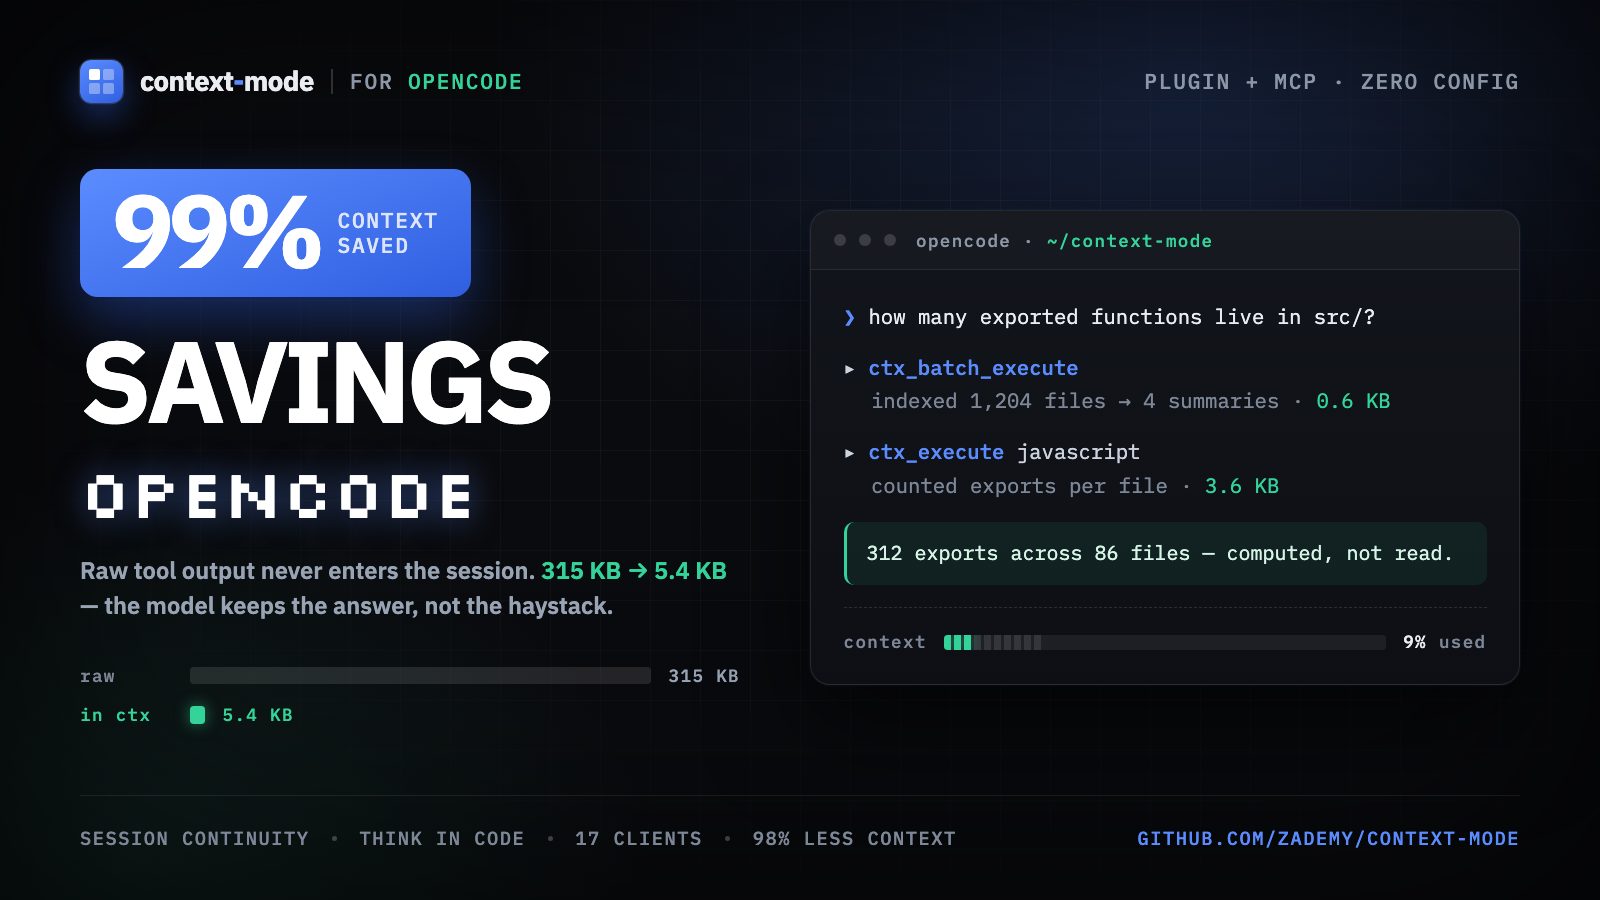
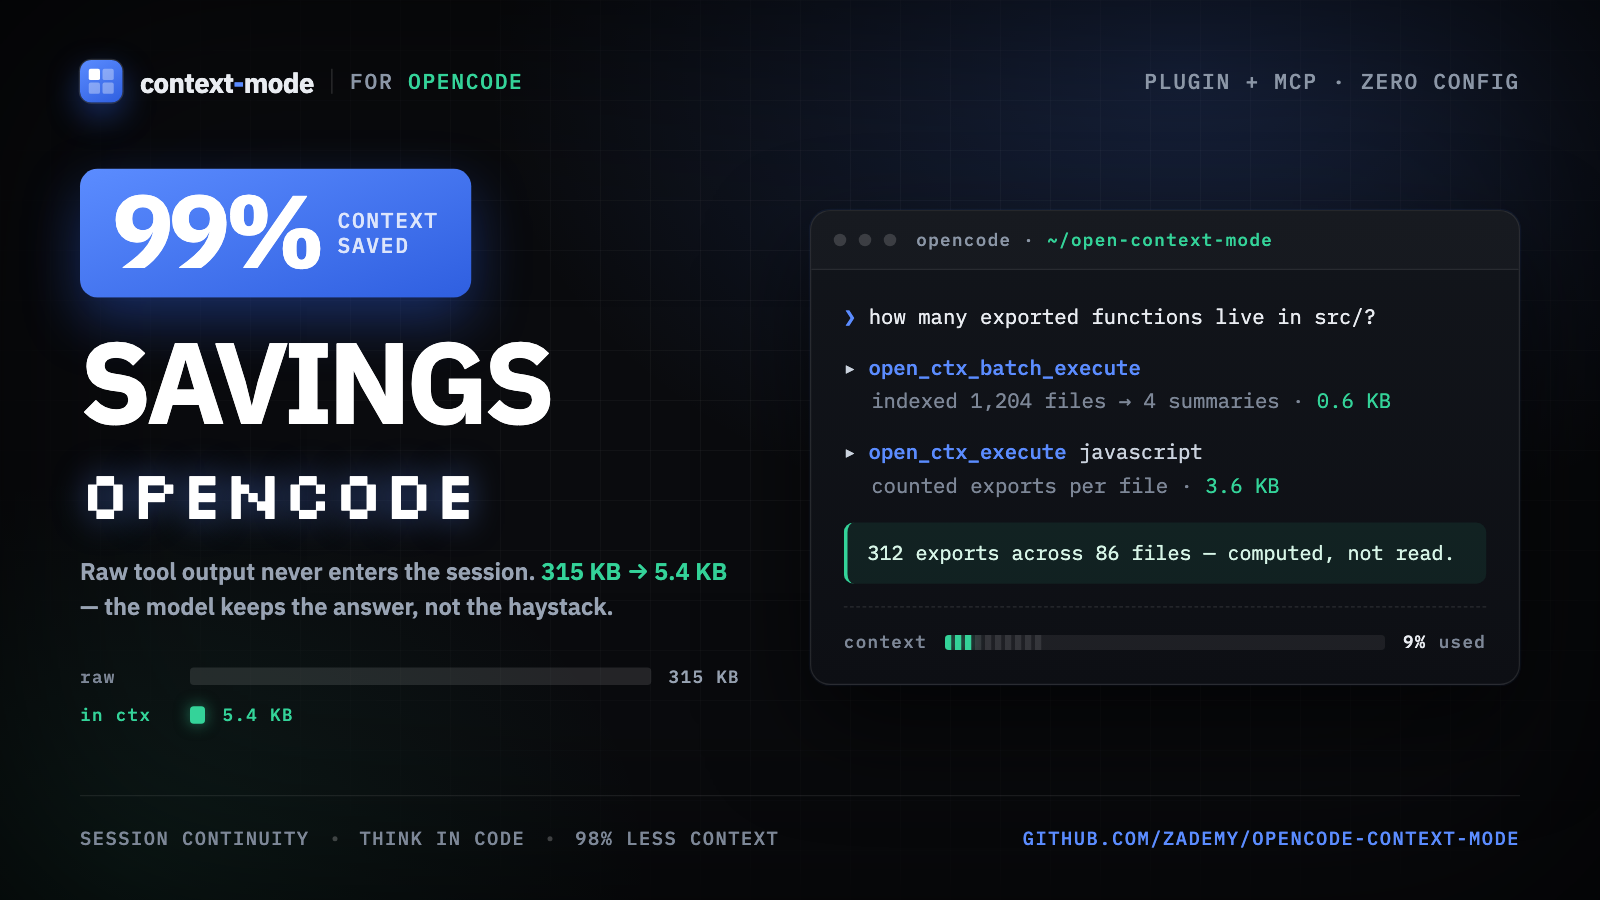
docs: regenerate README hero with open_ctx_* tool names
The PNG was a stale render: it still showed ctx_batch_execute / ctx_execute
and ~/context-mode from before the open_ctx_ rename. The HTML source was
already correct, so re-rendered it at the same 1600x900 (1280x720 CSS px
at 1.25x device scale).

Also dropped "17 clients" from the footer — this fork is OpenCode-only.
Added scripts/render-hero.mjs so the hero is regenerated from the HTML
instead of hand-edited (needs playwright-core, not a repo dependency).

diff --git a/docs/images/opencode-hero.html b/docs/images/opencode-hero.html
@@ -438,7 +438,6 @@
       <div class="layer foot mono">
         <span>session continuity</span><span class="sep"></span>
         <span>think in code</span><span class="sep"></span>
-        <span>17 clients</span><span class="sep"></span>
         <span>98% less context</span>
         <span class="grow">github.com/zademy/opencode-context-mode</span>
       </div>
